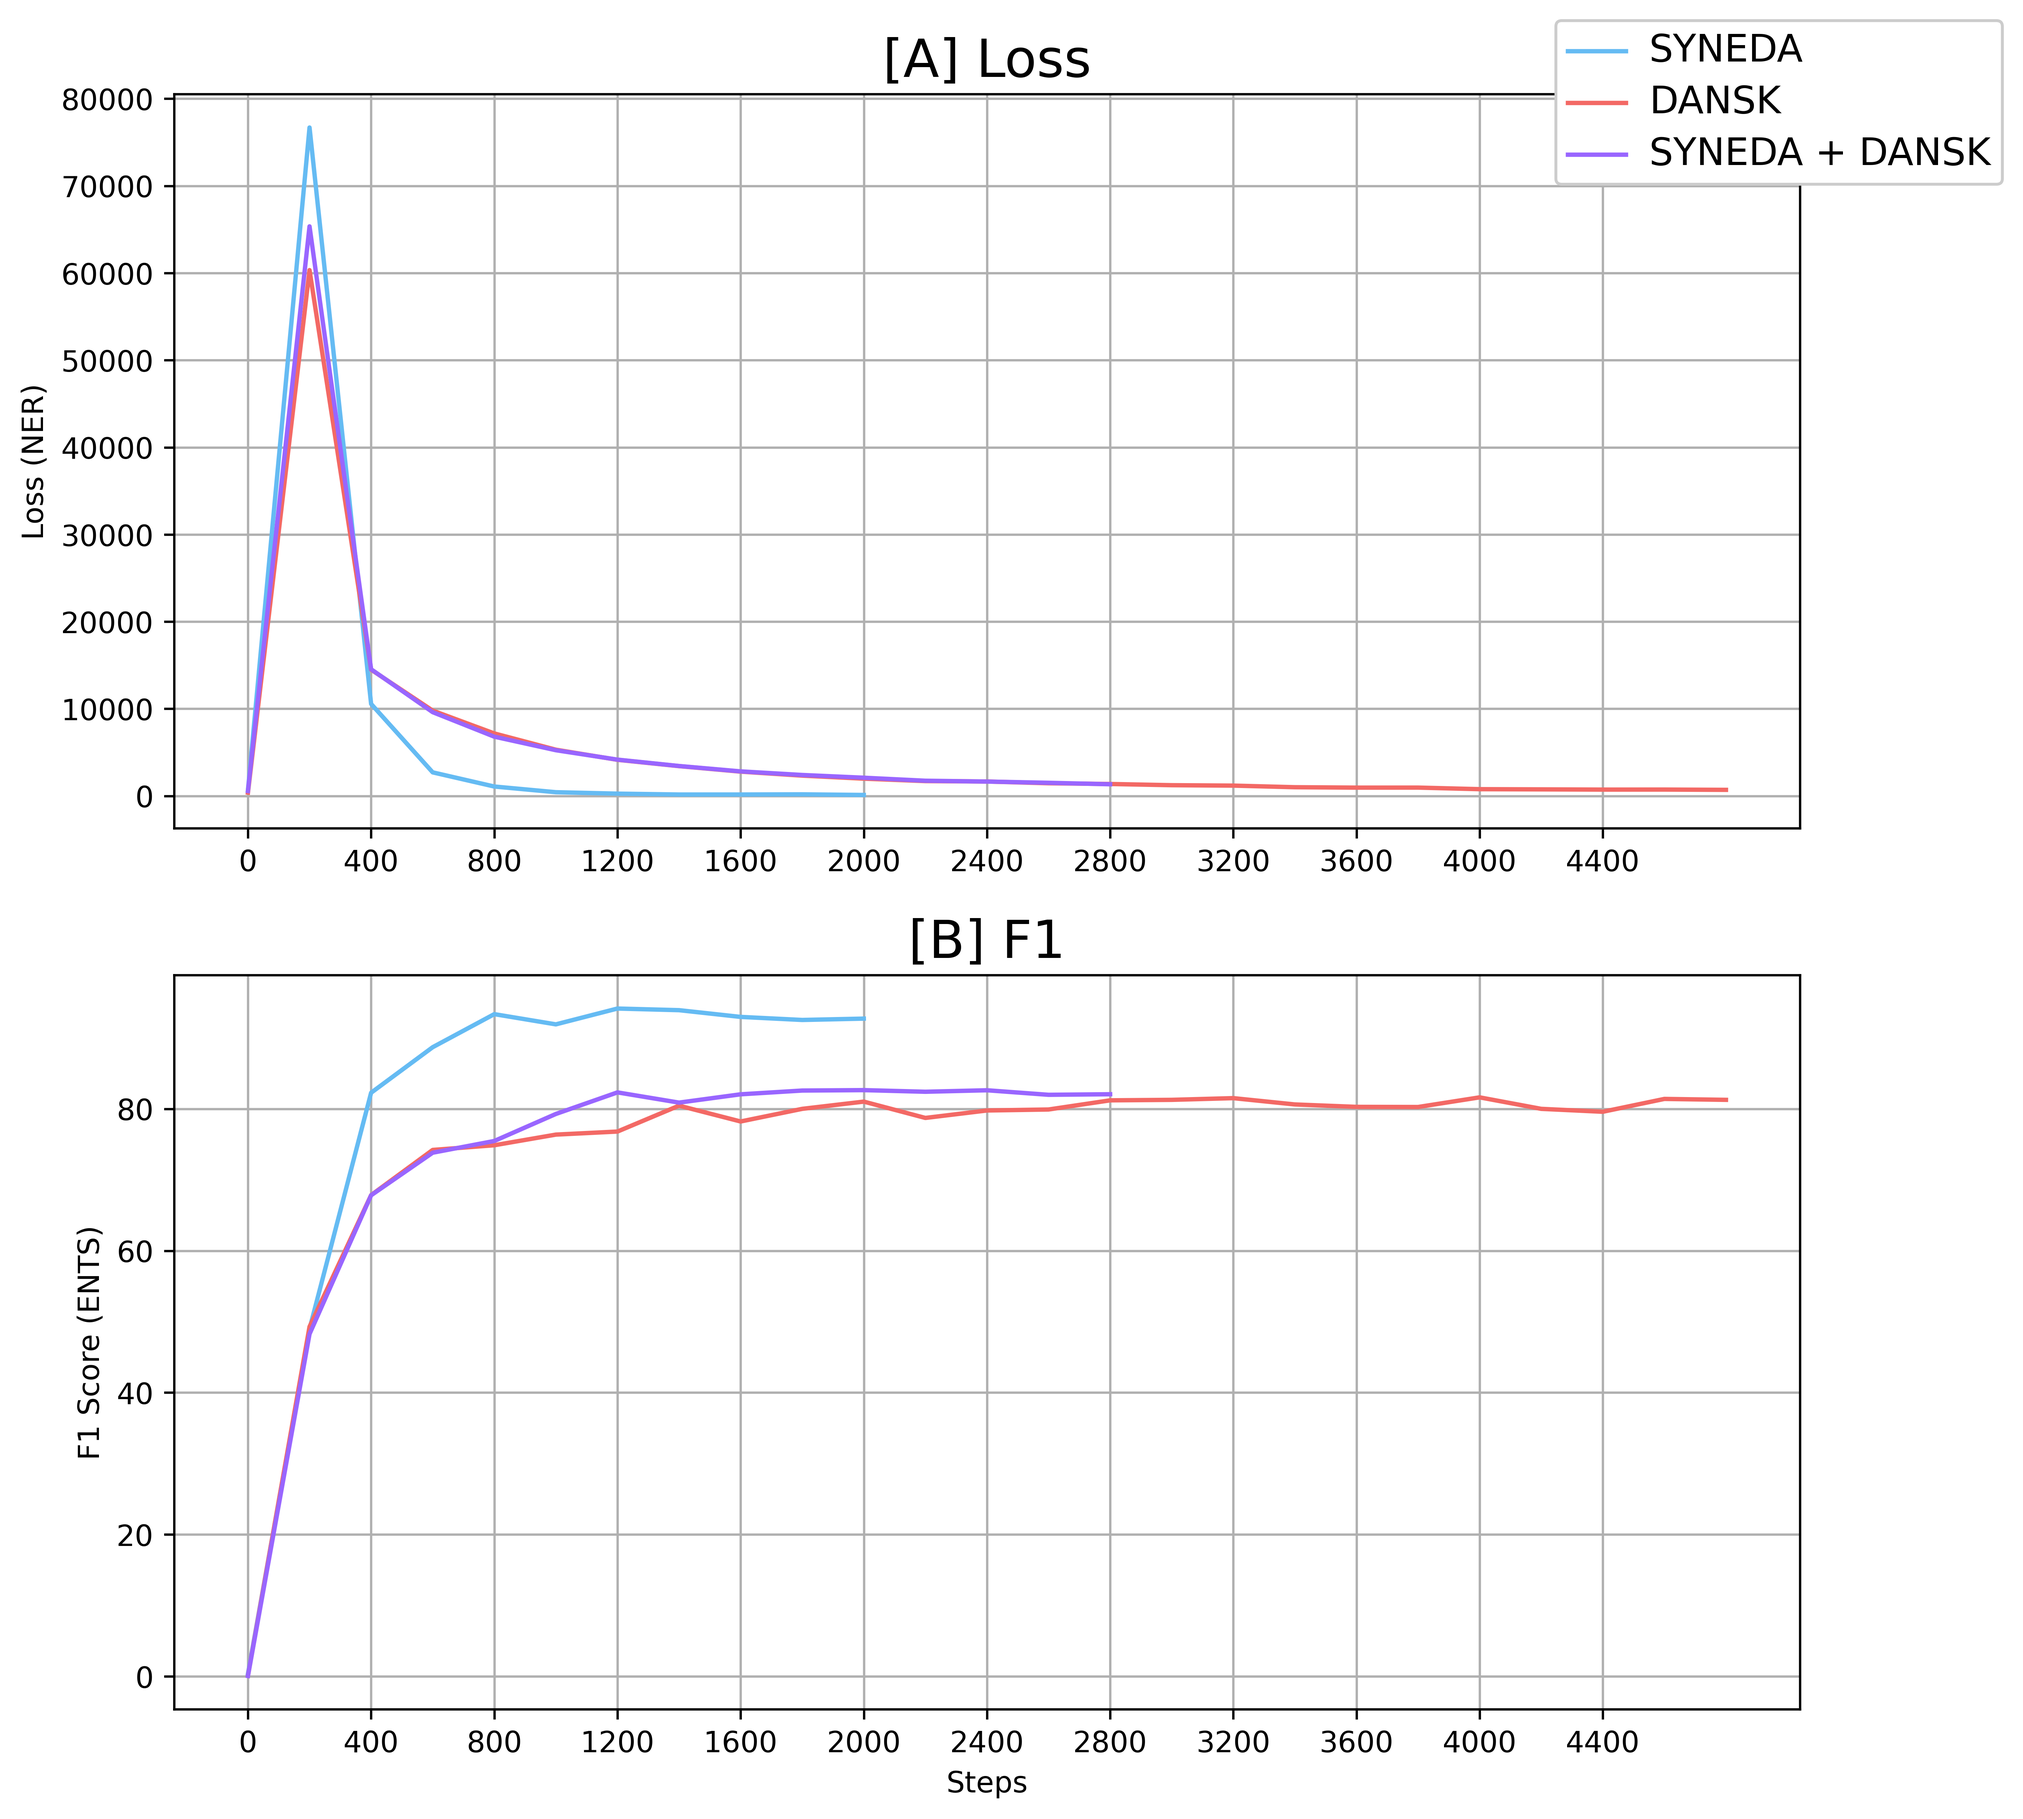
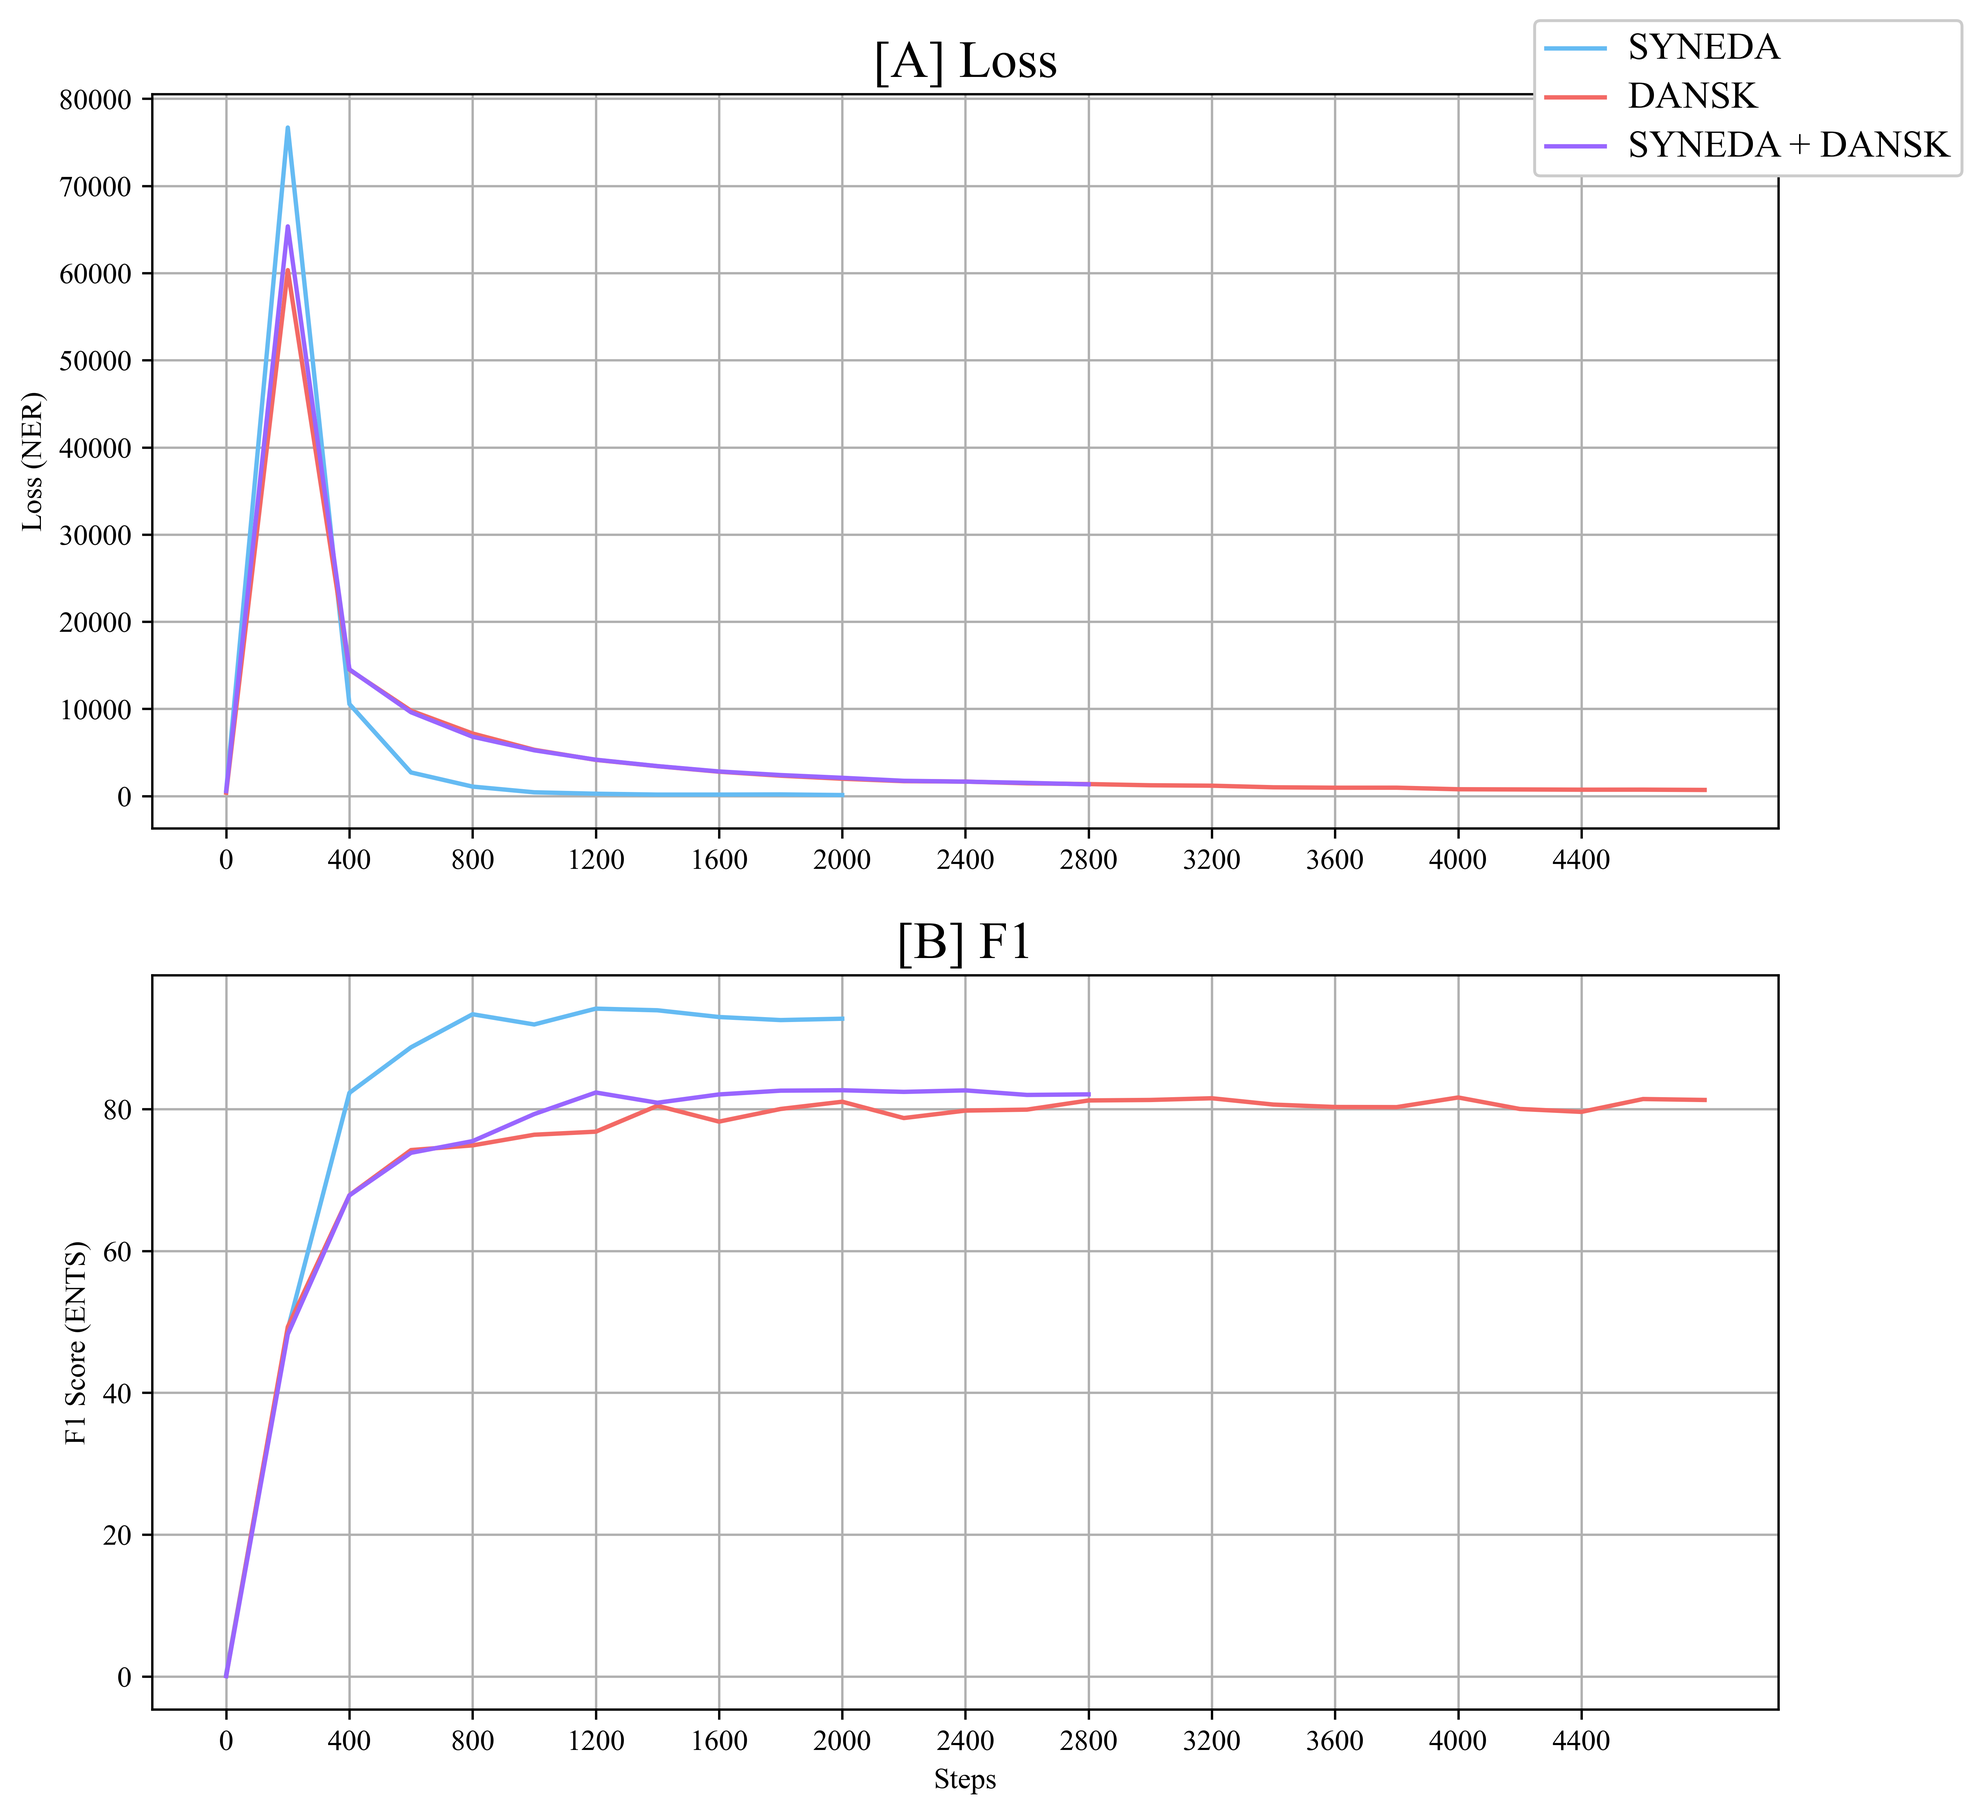
fixed font family setup

diff --git a/src/training_curves.py b/src/training_curves.py
@@ -89,12 +89,12 @@ def plot_curve(logs, y_col1, y_col2, y_col_name1, y_col_name2, x_col="#", save_p
     Returns:
         fig: matplotlib figure
     '''
-    # subplots
-    fig, (ax1, ax2) = plt.subplots(2, 1, figsize=(10, 10))
-
     # set font to times
     if font_family:
         plt.rcParams["font.family"] = font_family
+
+    # subplots
+    fig, (ax1, ax2) = plt.subplots(2, 1, figsize=(10, 10))
 
     # curves and labels for 1 subplot
     ax1.plot(logs["SYNEDA"][x_col], logs["SYNEDA"][y_col1], label='SYNEDA', color="#65BBF3")
@@ -156,7 +156,7 @@ def main():
         logs[f"{model_name}"] = log_df
     
     # plot loss 
-    plot_curve(logs, x_col="#", y_col1="LOSS NER", y_col2="ENTS_F", y_col_name1="Loss (NER)", y_col_name2="F1 Score (ENTS)", save_path=path.parents[1] / "plots" / "curves.png")
+    plot_curve(logs, x_col="#", y_col1="LOSS NER", y_col2="ENTS_F", y_col_name1="Loss (NER)", y_col_name2="F1 Score (ENTS)", save_path=path.parents[1] / "plots" / "curves.png", font_family="Times New Roman")
 
 
 
